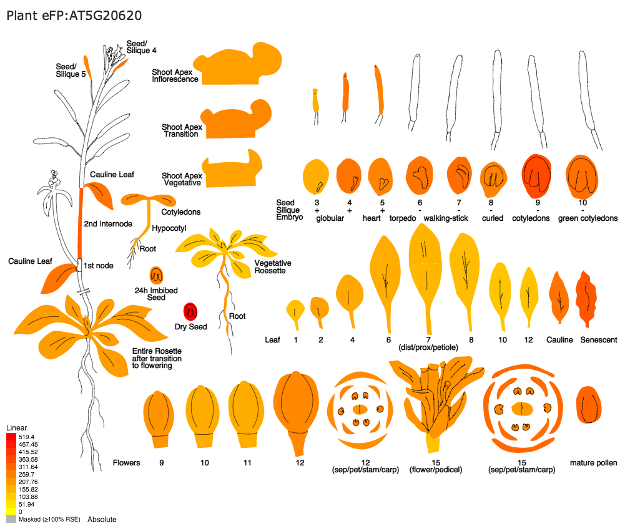
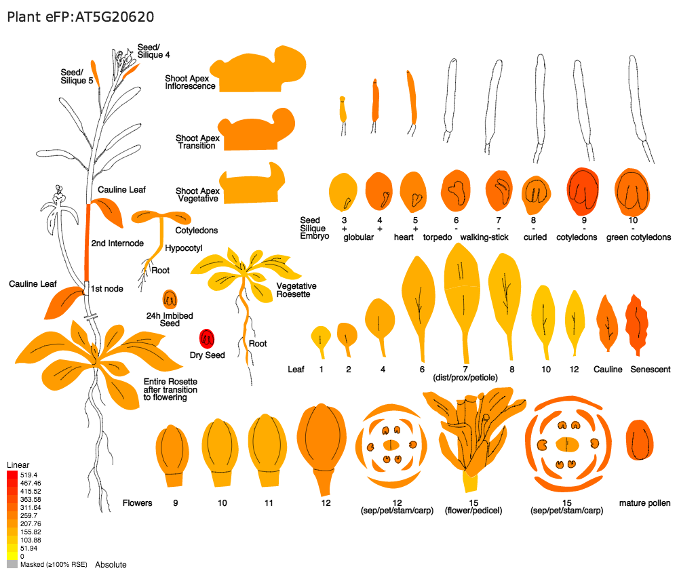
increased stimuli size, increased priming image size, extended questions now shown in top header bar

diff --git a/app/assets/stylesheets/experiments.scss b/app/assets/stylesheets/experiments.scss
@@ -35,6 +35,17 @@ div.dialog-form {
   }
 }
 
+div.priming-image {
+  width: 550px;
+  margin-left: auto;
+  margin-right: auto;
+  margin-top: 80px;
+  button {
+    float: right;
+    margin-top: 20px;
+  }
+}
+
 div.experiment {
   #stimuli {
     padding-left: 40px;
